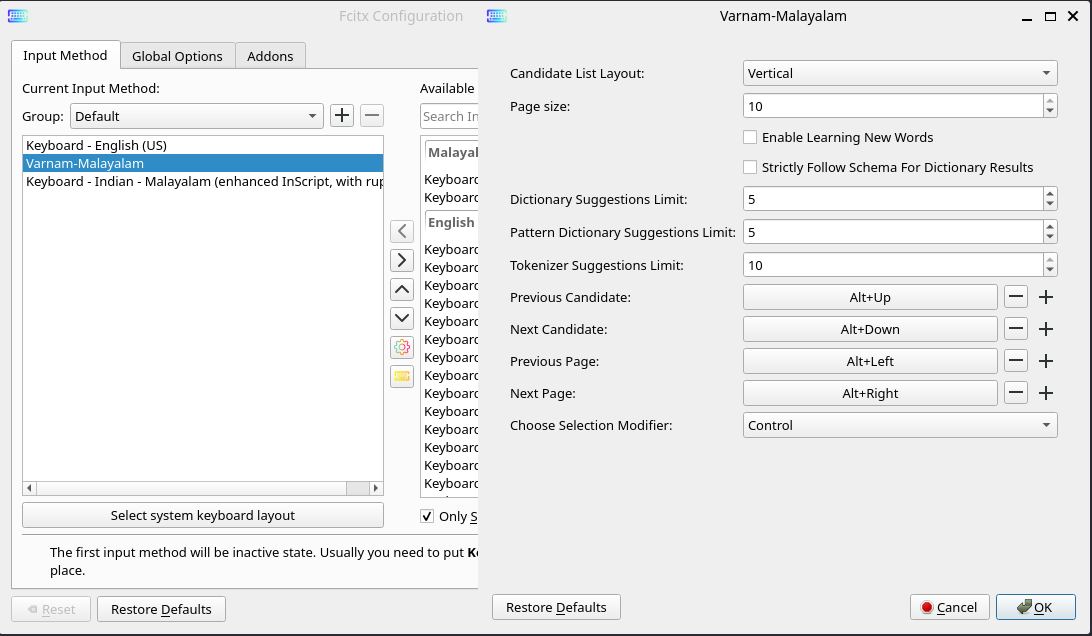
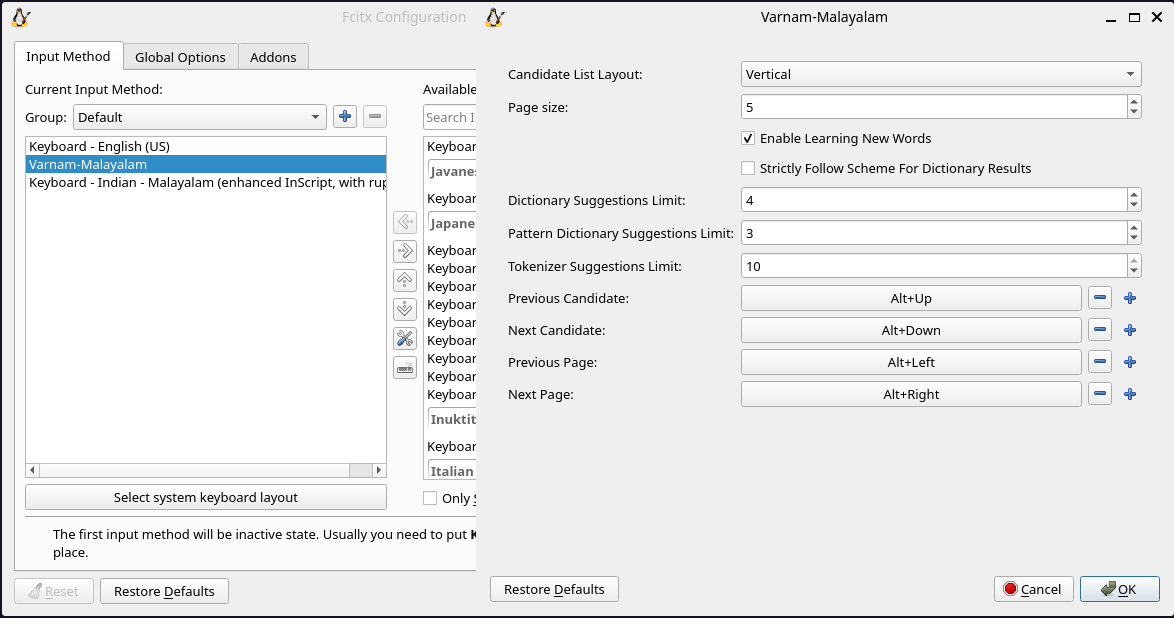
Removed modifier for candidate selection
* Fixes #2.
* Enabled Learn New words, default.
* Typo fixes.
* Updated readme.

Changed region(s): [[0.0, 0.0, 1.0, 1.0]]

diff --git a/src/varnam_engine.cpp b/src/varnam_engine.cpp
@@ -6,7 +6,6 @@
 #include <cstring>
 #include <fcitx-config/iniparser.h>
 #include <fcitx/inputpanel.h>
-#include <sstream>
 #include <vector>
 
 extern "C" {
@@ -35,7 +34,7 @@ VarnamEngine::~VarnamEngine() {
 void VarnamEngine::activate(const InputMethodEntry &entry,
                             InputContextEvent &contextEvent) {
 #ifdef DEBUG_MODE
-  VARNAM_INFO() << "activate schema:" << entry.uniqueName();
+  VARNAM_INFO() << "activate scheme:" << entry.uniqueName();
 #endif
 
   char *schemeName = (char *)entry.uniqueName().c_str();
@@ -45,7 +44,7 @@ void VarnamEngine::activate(const InputMethodEntry &entry,
     throw std::runtime_error("failed to initialize varnam");
   }
   varnam_config(varnam_handle, VARNAM_CONFIG_SET_DICTIONARY_MATCH_EXACT,
-                config_.strictlyFollowSchema.value());
+                config_.strictlyFollowScheme.value());
   varnam_config(varnam_handle, VARNAM_CONFIG_SET_DICTIONARY_SUGGESTIONS_LIMIT,
                 config_.dictionarySuggestionsLimit.value());
   varnam_config(varnam_handle,
@@ -58,7 +57,7 @@ void VarnamEngine::activate(const InputMethodEntry &entry,
 void VarnamEngine::deactivate(const InputMethodEntry &entry,
                               InputContextEvent &event) {
 #ifdef DEBUG_MODE
-  VARNAM_INFO() << "deactivate schema:" << entry.uniqueName();
+  VARNAM_INFO() << "deactivate scheme:" << entry.uniqueName();
 #endif
   if (event.type() == EventType::InputContextSwitchInputMethod) {
     auto ic = event.inputContext();
@@ -133,23 +132,7 @@ void VarnamEngine::setConfig(const RawConfig &config) {
   safeSaveAsIni(config_, "conf/varnam.conf");
 }
 
-void VarnamEngine::reloadConfig() {
-  readAsIni(config_, "conf/varnam.conf");
-  selectionKeyModifer_ = KeyState::NoState;
-  switch (config_.chooseModifier.value()) {
-  case ChooseModifier::Alt:
-    selectionKeyModifer_ = KeyState::Alt;
-    break;
-  case ChooseModifier::Control:
-    selectionKeyModifer_ = KeyState::Ctrl;
-    break;
-  case ChooseModifier::Super:
-    selectionKeyModifer_ = KeyState::Super;
-    break;
-  default:
-    break;
-  }
-}
+void VarnamEngine::reloadConfig() { readAsIni(config_, "conf/varnam.conf"); }
 
 } // namespace fcitx
 

diff --git a/src/varnam_state.cpp b/src/varnam_state.cpp
@@ -106,20 +106,14 @@ void VarnamState::processKeyEvent(KeyEvent &keyEvent) {
     return;
   }
   // handle candidate selection through modifier + index key
-  if (states.test(engine_->getSelectionModifer())) {
+  if (!buffer_.empty() && key.isDigit()) {
     if (auto candidateList = ic_->inputPanel().candidateList();
         candidateList && candidateList->size()) {
-      auto idx = keyListIndexWithState(key, selectionKeys,
-                                       engine_->getSelectionModifer());
+      auto idx = key.keyListIndex(selectionKeys);
       if (idx >= 0 && idx < candidateList->size()) {
         selectCandidate(idx);
-        keyEvent.filterAndAccept();
-        return;
       }
-    }
-    if (engine_->getSelectionModifer() != KeyState::Ctrl) {
-      keyEvent.filter();
-      reset();
+      keyEvent.filterAndAccept();
       return;
     }
   }
@@ -136,7 +130,8 @@ void VarnamState::processKeyEvent(KeyEvent &keyEvent) {
 #ifdef DEBUG_MODE
       VARNAM_INFO() << "unlearn word:" << preedit_.toString();
 #endif
-      std::string wordToUnlearn(preedit_.toStringForCommit()); // [TODO] try unique_ptr<char[]>
+      std::string wordToUnlearn(
+          preedit_.toStringForCommit()); // [TODO] try unique_ptr<char[]>
       std::thread unlearnThread(varnam_unlearn_word, engine_->getVarnamHandle(),
                                 std::move(wordToUnlearn));
       unlearnThread.detach();
@@ -399,7 +394,8 @@ void VarnamState::commitPreedit(const FcitxKeySym &key) {
 #ifdef DEBUG_MODE
       VARNAM_INFO() << "learn word:" << preedit_.toString();
 #endif
-      std::string wordToLearn(preedit_.toStringForCommit()); // [TODO] try unique_ptr<char[]>
+      std::string wordToLearn(
+          preedit_.toStringForCommit()); // [TODO] try unique_ptr<char[]>
       std::thread learnThread(varnam_learn_word, engine_->getVarnamHandle(),
                               std::move(wordToLearn), 0);
       learnThread.detach();
@@ -426,7 +422,7 @@ void VarnamState::updateUI() {
     ic_->updatePreedit();
     ic_->updateUserInterface(UserInterfaceComponent::InputPanel);
     return;
-  }  
+  }
   if (result_ == nullptr) {
     return;
   }

diff --git a/src/varnam_config.h b/src/varnam_config.h
@@ -30,12 +30,12 @@ FCITX_CONFIGURATION(
 
     // Enable Learning Words on commit
     Option<bool> shouldLearnWords{this, "Learn Words",
-                                  _("Enable Learning New Words"), false};
+                                  _("Enable Learning New Words"), true};
 
     // Strictly Follow Schema
-    Option<bool> strictlyFollowSchema{
-        this, "Strictly Follow Schema",
-        _("Strictly Follow Schema For Dictionary Results"), false};
+    Option<bool> strictlyFollowScheme{
+        this, "Strictly Follow Scheme",
+        _("Strictly Follow Scheme For Dictionary Results"), false};
 
     // Dictionary Suggestions Limit
     Option<int, IntConstrain> dictionarySuggestionsLimit{
@@ -83,11 +83,7 @@ FCITX_CONFIGURATION(
         _("Next Page"),
         {Key("Alt+Right")},
         KeyListConstrain(KeyConstrainFlag::AllowModifierLess)};
-
-    // Key Modifier
-    OptionWithAnnotation<ChooseModifier, ChooseModifierI18NAnnotation>
-        chooseModifier{this, "Choose Modifier", _("Choose Selection Modifier"),
-                       ChooseModifier::Alt};);
+);
 
 } // namespace fcitx
 #endif

diff --git a/README.md b/README.md
@@ -1,5 +1,12 @@
 # Varnam Fcitx5
 
+<center>
+
+![](assets/screenshot-ime-horizontal.png)
+
+</center>
+
+
 A wrapper to add Varnam Input Method Engine support in Fcitx5 Input Method.
 
 > The project is still a work in progress. Please report bugs by raising [issues](https://github.com/varnamproject/varnam-fcitx5/issues).
@@ -24,7 +31,7 @@ meson compile
 sudo meson install
 ```
 
-To enable debug logs set `varnam_debug` to `true` by using the following command, before compiling the project. 
+To enable debug logs set `varnam_debug` to `true` by using the following command, before compiling the project.
 
 ```bash
 meson configure -Dvarnam_debug=true
@@ -46,4 +53,13 @@ sudo ninja uninstall
 
 Varnam Fcitx can be configured using `fcitx5-configtool`. Please refer the [official documentation](https://fcitx-im.org/wiki/Configtool_(Fcitx_5)).
 
+<center>
+
 ![Config Tool](assets/screenshot-fcitx-configtool-01.png)
+
+</center>
+
+| Property | Description |
+-----------|-------------
+| Strictly Follow Scheme For Dictionary Results | If this is turned on then suggestions will be more accurate according to [scheme](https://varnamproject.com/editor/#/scheme). But you will need to learn the [language scheme](https://varnamproject.com/editor/#/scheme) thoroughly for the best experience.|
+| Enable Learning New Words | Varnam will try to **learn every new word we write by default**. This feature can be disabled through the configuration window.
